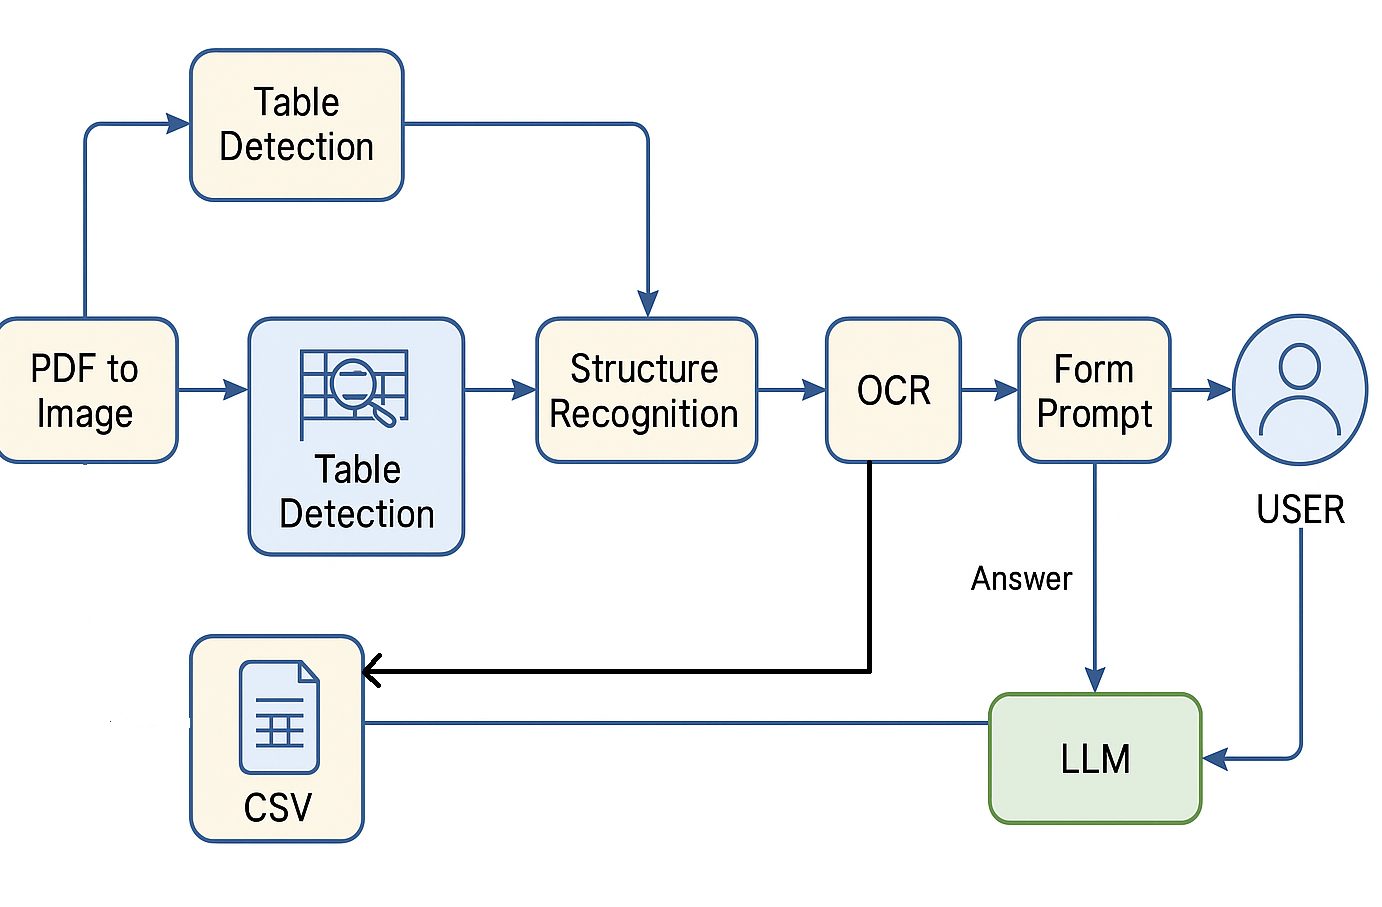
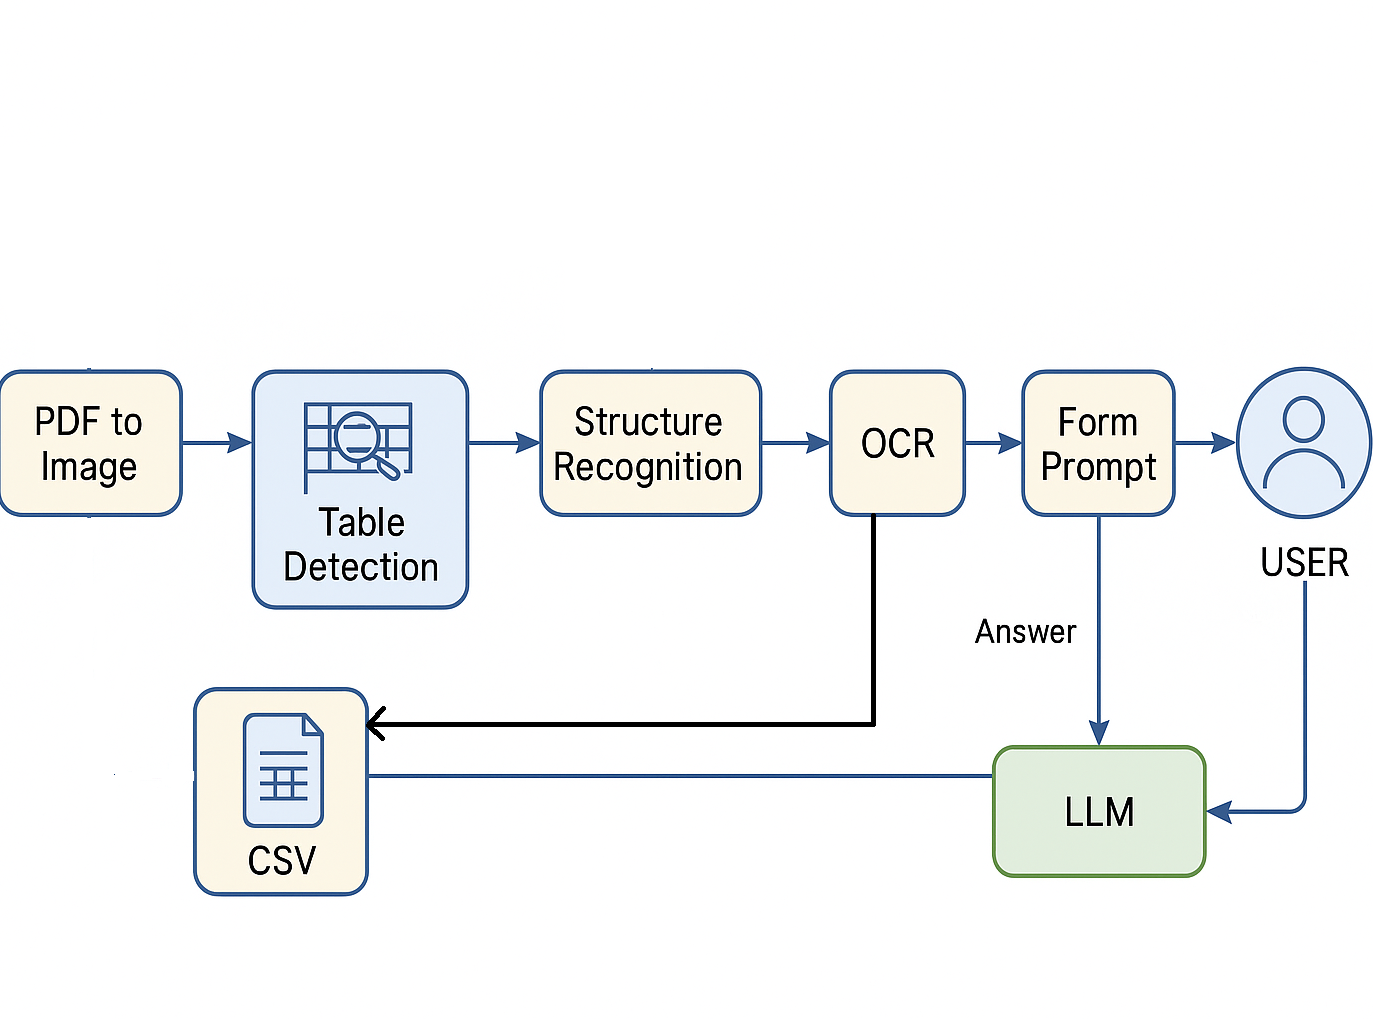
Add new images and update process visualization layout

Changed region(s): [[0.0, 0.1544, 1.0, 0.957], [0.0612, 0.0309, 0.4588, 0.247]]

diff --git a/vlm-app/src/components/process-visualization.tsx b/vlm-app/src/components/process-visualization.tsx
@@ -83,12 +83,12 @@ const processSteps = [
 //   }
 // ]
 const stepPositions = [
-    { left: "12.5%", width: "105px", height: "87px",top : 217 },  // PDF to Image
-    { left: "29.3%", width: "128px", height: "141px",top : 243 },  // Table Detection
-    { left: "47.2%", width: "130px", height: "90px",top : 218 },  // Structure Recognition
-    { left: "62.5%", width: "82px", height: "86px",top : 216 },   // OCR
-    { left: "75.0%", width: "92px", height: "85px",top : 216 },  // Form Prompt
-    { left: "75.1%", width: "125px", height: "80px",top : 421 },   // USER
+    { left: "17.0%", width: "105px", height: "87px",top : 217 },  // PDF to Image
+    { left: "31.7%", width: "128px", height: "141px",top : 243 },  // Table Detection
+    { left: "48.0%", width: "130px", height: "90px",top : 218 },  // Structure Recognition
+    { left: "61.8%", width: "82px", height: "86px",top : 216 },   // OCR
+    { left: "72.9%", width: "92px", height: "85px",top : 216 },  // Form Prompt
+    { left: "72.9%", width: "125px", height: "80px",top : 401 },   // USER
   ];
 
 //   const activeBoxStyle = {
@@ -273,8 +273,7 @@ export default function ProcessVisualization({ fileName, onProcessComplete }: Pr
           <Image
           src={img1}
           fill
-          
-        //   width={1000}
+        
             // src="../../public/flow.png"
             alt="Document Processing Workflow Diagram"
             className="object-contain"
